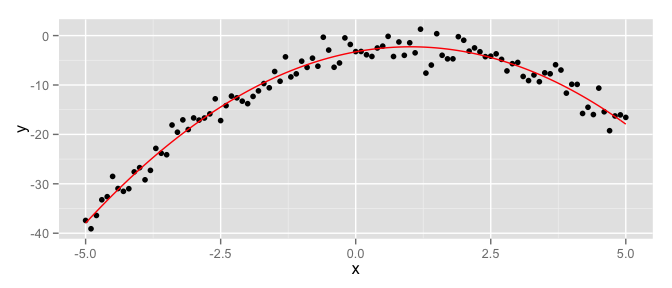
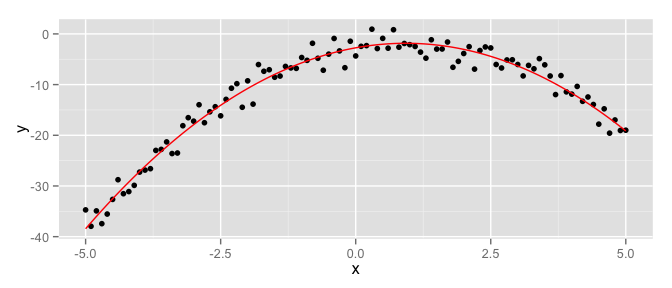
readme: bezier update

Changed region(s): [[0.0312, 0.0938, 0.9688, 0.8438]]

diff --git a/README.md b/README.md
@@ -234,10 +234,10 @@ Bezier polynomials and curves
 You can construct [Bezier polynomials](http://en.wikipedia.org/wiki/Bézier_curve) for a given collection of points with `bezier()`:
 
 ``` r
-points <- data.frame(x = 0:3, y = c(0,1,-1,0))
+points <- data.frame(x = c(-1,-2,2,1), y = c(0,1,1,0))
 (bezPolys <- bezier(points))
-#> 3 t
-#> 6 t^3  -  9 t^2  +  3 t
+#> -10 t^3  +  15 t^2  -  3 t  -  1
+#> -3 t^2  +  3 t
 ```
 
 And viewing them is just as easy:
@@ -247,8 +247,8 @@ df <- t(sapply(s, as.function(bezPolys)) )
 #> f(t)
 df <- as.data.frame(df)
 names(df) <- c("x", "y")
-qplot(x, y, data = df, geom = "line") +
-  geom_line(data = points, color = "red") +
+qplot(x, y, data = df, geom = "path") +
+  geom_path(data = points, color = "red") +
   geom_point(data = points, color = "red", size = 4)
 ```
 
@@ -266,7 +266,7 @@ df$y <- with(df, -x^2 + 2*x - 3 + rnorm(n, 0, 2))
 
 mod <- lm(y ~ x + I(x^2), data = df)
 (p <- round(as.mpoly(mod)))
-#> 2.003 x  -  0.986 x^2  -  3.285
+#> 1.93 x  -  1.042 x^2  -  2.741
 qplot(x, y, data = df) +
   stat_function(fun = as.function(p), colour = 'red')
 #> f(x)
